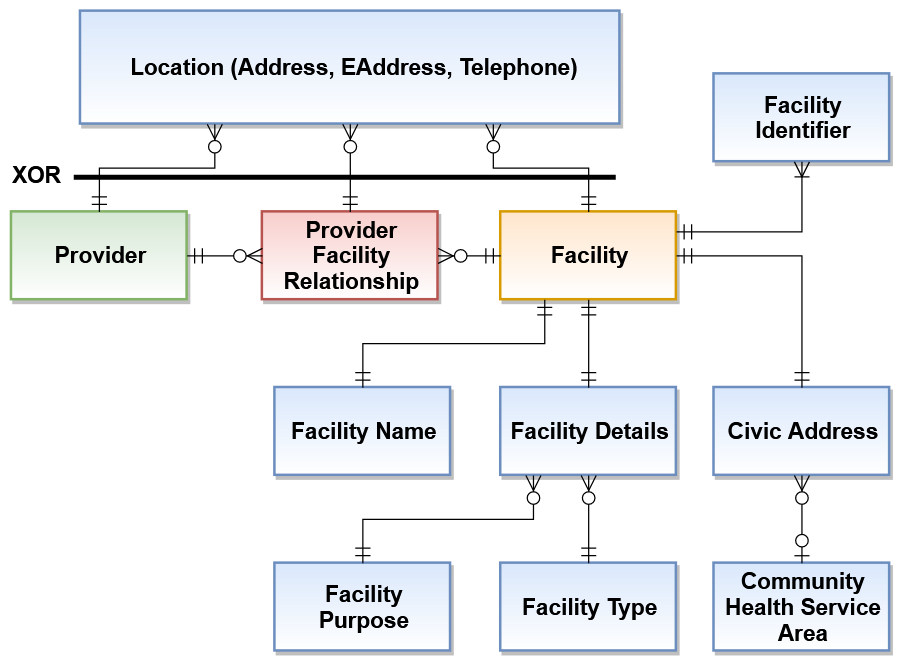
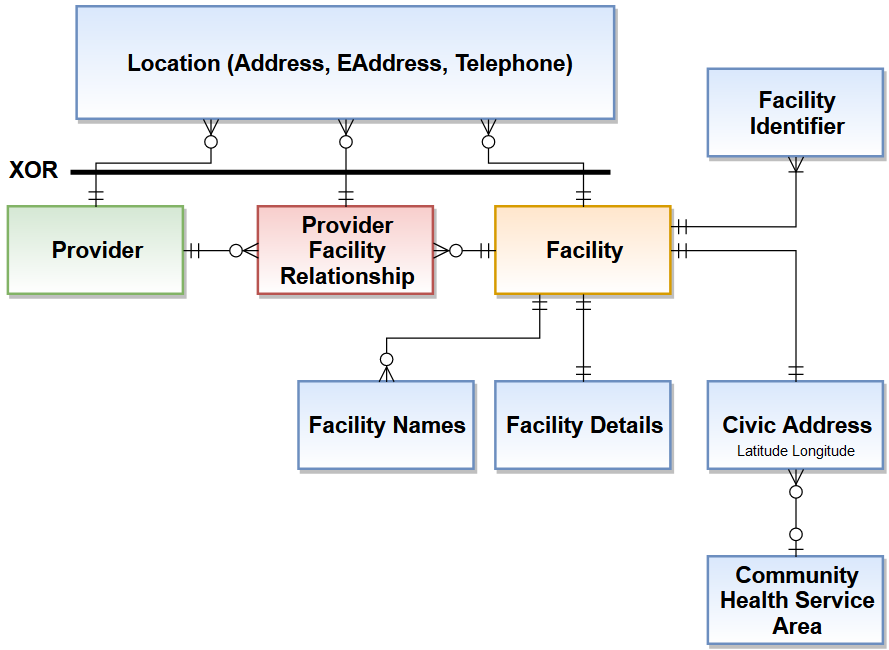
removing type and purpose

Changed region(s): [[0.0, 0.0, 1.0, 1.0], [0.6074, 0.3692, 0.6985, 0.4], [0.4556, 0.3077, 0.4859, 0.3385]]

diff --git a/input/pagecontent/specification.md b/input/pagecontent/specification.md
@@ -8,7 +8,7 @@ This specification is currently published as a Draft Standard on the ministry gi
 
 In FHIR, the resources used are named Practitioner, Organization, and Location.  BC has created profiles of each of these resources for use in the PLR system.
 
-Each Individual Provider is composed of a [Practitioner instance](StructureDefinition-bc-practitioner.html) and at least one [PractitionerRole instance](StructureDefinition-bc-practitioner-role.html) which holds the Practitioner's role, such as Nurse or Dentist.  Other PractitionerRole instances will hold the relationship between an Practitioner and their Work Locations via the PractitionerRole.location reference and to Organizational Providers via the PractitionerRole.organization.
+Each Individual Provider is composed of a [Practitioner instance](StructureDefinition-bc-practitioner.html) and at least one [PractitionerRole instance](StructureDefinition-bc-practitioner-role.html) which holds the Practitioner's role, such as Nurse or Dentist.  Other PractitionerRole instances will hold the relationship between an Practitioner and related Facilities via the PractitionerRole.location reference and to Organizational Providers via the PractitionerRole.organization reference.
 
 Each Organizational Provider is composed of an [Organization instance](StructureDefinition-bc-organization.html) with zero or more [OrganizationAffiliation instances](StructureDefinition-bc-organization-affiliation.html) that hold the relationship betwen two different Organizations as well as the relationship between an Organization and the locations where it provides services.
 
@@ -28,22 +28,22 @@ A practitioner providing services in multiple roles, for example, as a Nurse or 
 #### Provider to Provider Relationships
 
 ##### Individual Provider to Individual Provider
-Individual provider to provider relationships are used for showing how providers are related to each other.  For instance, a LOCUM provider can be referenced using this capability.
-To show the relationship between two individual providers, the [BC Practitioner Relationship extension](StructureDefinition-bc-practitioner-relationship-extension.html) was created.  This allows for a relationship type and a linkage between two BC Practitioners to be stated.  NOTE: It is expected that the relationship would be found on both Practitioner instances.
+Individual Provider to Provider relationships are used for showing how Providers are related to each other.  For instance, a LOCUM Provider can be referenced using this capability.
+To show the relationship between two Individual Providers, the [BC Practitioner Relationship extension](StructureDefinition-bc-practitioner-relationship-extension.html) was created.  This allows for a relationship type and a linkage between two BC Practitioners to be stated.  NOTE: It is expected that the relationship would be found on both Practitioner instances.
 
 ##### Individual Provider to Organizational Provider
-To show the relationship between an individual Provider and an organizational Provider (i.e. a hospital that has providers working at it), the [BC PractitionerRole profile](StructureDefinition-bc-practitioner-role.html) is used.  This resource has a practitioner data element and an organization data element along with a code that is used to say what role the individual provider plays at the organization.
+To show the relationship between an Individual Provider and an Organizational Provider (i.e. a hospital that has Providers working at it), the [BC PractitionerRole profile](StructureDefinition-bc-practitioner-role.html) is used.  This resource has a practitioner data element and an organization data element along with a code that is used to say what role the Individual Provider plays at the organization.
 
 ##### Organizational Provider to Organizational Provider
-To show the relationship between two organizational providers (i.e. a subsidiary organization), the [BC OrganizationAffiliation profile](StructureDefinition-bc-organization-affiliation.html) is used.  This resource has an organization data element and a participating organization data element along with a code that is used to indicate the nature of the affiliation between the two organizations.
+To show the relationship between two Organizational Providers (i.e. a subsidiary organization or a care team related to Good Health Clinic Inc.), the [BC OrganizationAffiliation profile](StructureDefinition-bc-organization-affiliation.html) is used.  This resource has an organization data element and a participating organization data element along with a code that is used to indicate the nature of the affiliation between the two organizations.
 
 #### Provider to Facility Relationships
 
 ##### Individual Provider to Facility
-To show the relationship between an individual provider and a facility (i.e. a works-at relationship), the [BC PractitionerRole profile](StructureDefinition-bc-practitioner-role.html) is used.  Instead of the organization data element, the location data element is used to indicate that a provider is related to a facility.
+To show the relationship between an Individual Provider and a Facility (i.e. a works-at relationship), the [BC PractitionerRole profile](StructureDefinition-bc-practitioner-role.html) is used.  Instead of the organization data element, the location data element is used to indicate that a Provider is related to a Facility.
 
 ##### Organization Provider to Facility
-To show the relationship between an organizational provider and a facility (i.e. facilities where the organization does its work), the [BC OrganizationAffiliation profile](StructureDefinition-bc-organization-affiliation.html) is used.  Instead of the participating organization data element, the location data element is used to indicate that an organization is related to a facility.
+To show the relationship between an Organizational Provider and a Facility (i.e. facilities where the organization does its work), the [BC OrganizationAffiliation profile](StructureDefinition-bc-organization-affiliation.html) is used.  Instead of the participating organization data element, the location data element is used to indicate that an organization is related to a Facility.
 
 ### Use Cases
 There are a number of use cases that support the existing PLR functionality:
@@ -86,13 +86,13 @@ PLR FHIR has defined a set of FHIR Operations to search for Providers and Facili
 
 The two query operations are:
 
-* $entityQuery - used to return the full [provider](OperationDefinition-bc-entity-practitioner-query.html) or [organization](OperationDefinition-bc-entity-organization-query.html) or [facility](OperationDefinition-bc-entity-location-query.html) without following relationships
-* $extendedQuery - used to return the full [provider](OperationDefinition-bc-extended-practitioner-query.html) or [organization](OperationDefinition-bc-extended-organization-query.html) or [facility](OperationDefinition-bc-extended-location-query.html) along with all directly referenced providers or facilities
+* $entityQuery - used to return the full [Provider](OperationDefinition-bc-entity-practitioner-query.html) or [organization](OperationDefinition-bc-entity-organization-query.html) or [Facility](OperationDefinition-bc-entity-location-query.html) without following relationships
+* $extendedQuery - used to return the full [Provider](OperationDefinition-bc-extended-practitioner-query.html) or [organization](OperationDefinition-bc-extended-organization-query.html) or [Facility](OperationDefinition-bc-extended-location-query.html) along with all directly referenced Providers or facilities
 
 The syntax for the $entityQuery operation is:
 
-* GET /resource/id/$entityQuery to retrieve a specific provider or facility where the id is known
-* GET /resource/$entityQuery?param1&param2&... to search for a provider or facility with search parameters instead of an id
+* GET /resource/id/$entityQuery to retrieve a specific Provider or Facility where the id is known
+* GET /resource/$entityQuery?param1&param2&... to search for a Provider or Facility with search parameters instead of an id
 
 Although PLR supports many different types of identifiers, the resource id is the identifier assigned by PLR when the resource is created, internally called the IPC for Providers and IFC for Facilities.  This id is always returned in the response and should be persisted by the requestor.  To search for other identifiers stored in PLR and attached to Providers or Facilities, the search parameter 'identifier' should be used.
 
@@ -100,8 +100,8 @@ The parameters for the $entityQuery operation will be the search parameters list
 
 The syntax for the $extendedQuery operation is:
 
-* GET /resource/id/$extendedQuery to retrieve the full information about a specific provider or facility where the id is known
-* GET /resource/$extendedQuery?param1&param2&... to search and retrieve the full information about a provider or facility
+* GET /resource/id/$extendedQuery to retrieve the full information about a specific Provider or Facility where the id is known
+* GET /resource/$extendedQuery?param1&param2&... to search and retrieve the full information about a Provider or Facility
 
 The parameters for the $extendedQuery operation will be the search parameters listed below.
 
@@ -118,11 +118,9 @@ The parameters for the $extendedQuery operation will be the search parameters li
 ||status-reason|
 ||address-city|
 |Organization|name|
-||city|
+||address-city|
 |Location|name|
-||city|
-||type|
-||purpose|
+||address-city|
 ||healthAuthority|
 ||healthServiceDeliveryArea|
 ||localHealthArea|

diff --git a/input/pagecontent/index.md b/input/pagecontent/index.md
@@ -5,7 +5,7 @@ This specification is currently published as a Draft Standard on the ministry gi
 </blockquote>
 {% endraw %}
 ### PLR Application Overview
-The Provider and Location Registry (PLR) is a centralized repository of core information about health service providers, e.g., physicians, nurses, pharmacists.  Information is supplied by authorized sources such as professional colleges. PLR ensures the security of patient health information by employing or enabling proven security and privacy techniques. Data in the repository is available to authorized organizations to facilitate the transmission of provider information between authorized organizations in real time.  This makes PLR a cornerstone in the development of the Electronic Health Record (EHR).
+The Provider and Location Registry (PLR) is a centralized repository of core information about health service providers, e.g., physicians, nurses, pharmacists.  Information is supplied by authorized sources such as professional colleges. PLR ensures the security of provider information by employing or enabling proven security and privacy techniques. Data in the repository is available to authorized organizations to facilitate the transmission of provider information between authorized organizations in real time.  This makes PLR a cornerstone in the development of the Electronic Health Record (EHR).
 
 PLR supports BC Health stakeholder needs for a comprehensive, trusted and reliable custodian and source of core health provider, location and facility information. PLR is the authoritative registry of British Columbia healthcare Providers’ demographic and professional information which supports activities such as:
 
@@ -24,11 +24,11 @@ The PLR contains information for each Provider (e.g. personal demographics, Coll
 * College of Psychologists of BC
 * College of Optometrists of BC
 
-Any given Point of service (PoS) can only access the Provider data fields that are included in the relevant information sharing agreements with the Ministry of Health. Specific data permissions are set within the PLR.  A PoS application can use the PLR as the sole source of Provider information or to complement existing retained Provider information.
+Any given point of service (PoS) can only access the Provider data fields that are included in the relevant information sharing agreements with the Ministry of Health. Specific data permissions are set within the PLR.  A PoS application can use the PLR as the sole source of Provider information or to complement existing retained Provider information.
 
 ### Providers
 
-A *Provider* is a person / individual or an organization acting in a role. The PLR uses the terms individual Provider and organization Provider to distinguish between the two role types.
+A *Provider* is a person / individual or an organization acting in a role. The PLR uses the terms individual Provider and organization Provider to distinguish between the two types.
 Examples:
 
 * Persons / Individual Provider – Dr. Sara Scalpel in the role of medical doctor.
@@ -47,12 +47,11 @@ The relationships above are compositions, the children cannot exist without the 
 
 ### Facilities
 
-A Facility is an identified, named place, piece of equipment, or amenity of interest to BC Health which may be physical (e.g. a building or vehicle).  It can be a a particular place or position which may be physically/spatially related.  Facilities have names, unique types and purposes, and may have other communication mechanisms: mailing addresses, telephone numbers, etc.  As well, multiple organizations or individual providers can be related to a facility.
+A Facility is an identified, named place, piece of equipment, or amenity of interest to BC Health which is physical (e.g. a building or vehicle).  It can be a a particular place or position which may be physically/spatially related.  Facilities have names, and may have other communication mechanisms: mailing addresses, telephone numbers, etc.  As well, multiple organizations or individual providers can be related to a facility.
 
 A Facility is a unique civic address in BC and may be:
 
 * A single building (most frequent case).
-* A unit within a building.
 * One of several assigned to very large buildings with multiple entrances (e.g. Vancouver General).
 
 Examples: Long term care facility, Walk-in Clinic, Urgent Care Centre, Public Health Office, Hospitals, Ambulances, Pharmacies, Laboratory offices, Community Medical Imaging Clinics.
@@ -67,7 +66,7 @@ This enables:
 
 {::options parse_block_html="false" /}
 <figure>
-  <img style="padding-top:0;padding-bottom:30px" width="400px" src="bc_facility.png" alt="BC PLR Facility"/>
+  <img style="padding-top:0;padding-bottom:30px" width="450px" src="bc_facility.png" alt="BC PLR Facility"/>
   <figcaption>Figure 1.2 - BC PLR Facility</figcaption>
 </figure>
 {::options parse_block_html="true" /}
@@ -75,10 +74,10 @@ This enables:
 The above diagram outlines the different entities that compose a facility:
 
 * Facility Name - name and description
-* Facility Details - type and purpose, owner, operator
-* Facility Type - physical, mobile or possibly virtual
+* Facility Details - owner, operator, effective dates
 * Civic Address - civic address along with latitude/longitude and community health service area (CHSA) codes and code descriptions
-* Facility Identifier - identifier with identifier type
+* Facility Identifier - identifier(s) with identifier type
+* Community Health Service Area - a health boundary within the Province of BC
 
 ### Relation to CA Baseline and other IGs
 
@@ -100,6 +99,6 @@ No form of data absent reason is supported; mandatory data must always be presen
 
 #### Must Support
 
-All of the PLR Profiles include elements that are marked as 'Must Support'.  For the purposes of this guide, Must Support is intended to represent those fields that will be exchanged between client applications and the PLR server.  Client applications who are receving PLR information SHALL be able to receive all fields marked as Must Support without raising an exception.  When sending information to the PLR server, client applications SHOULD be able to send any fields marked as Must Support, with the additional expectation that they SHALL send any fields that they collect. 
+All of the PLR Profiles include elements that are marked as 'Must Support'.  For the purposes of this guide, Must Support is intended to represent those fields that will be exchanged between client applications and the PLR server.  Client applications who are receving PLR information SHALL be able to receive all fields marked as Must Support without raising an exception.  When sending information to the PLR server, client applications SHOULD be able to send any fields marked as Must Support. 
 
 The privacy and security requried to handle PLR data is fully described in the conformance guides.
